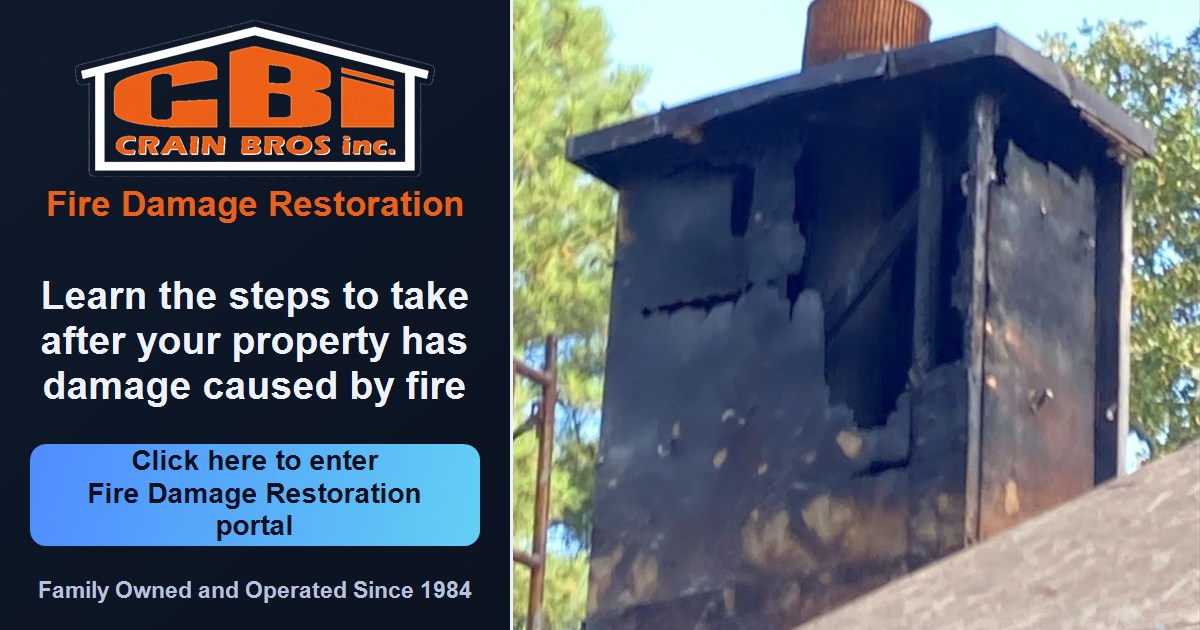
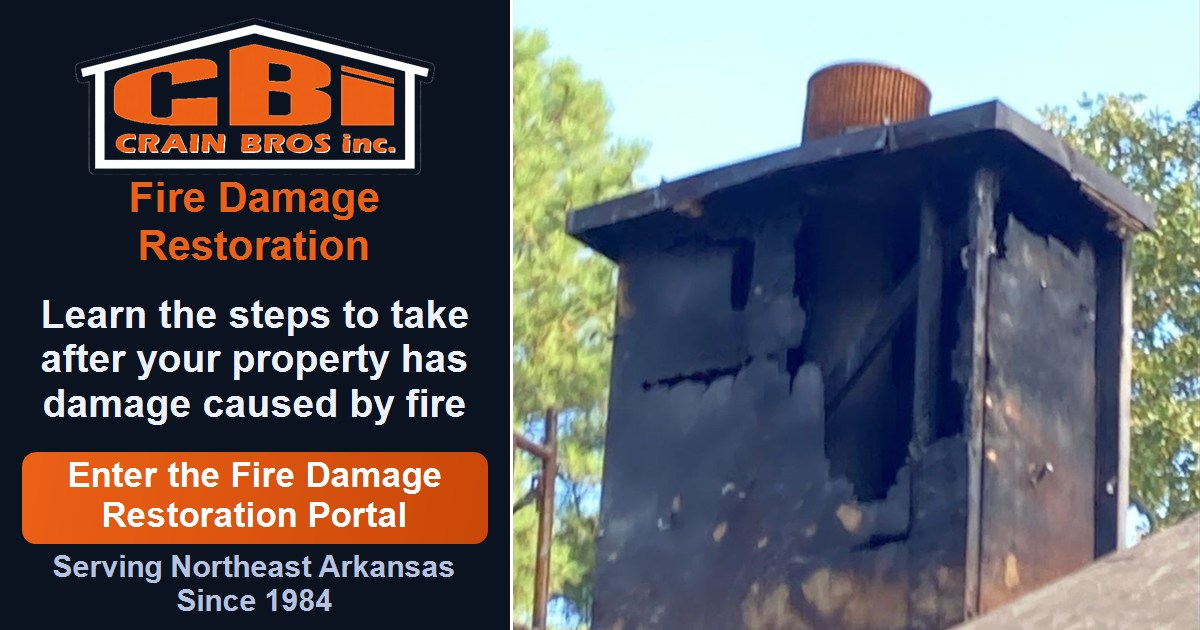
Website update
Automated publish via Publish-CbiWebsite.ps1
Run timestamp: 2026-08-25_203339
Changed entries: 2
Safety gate: PASS

diff --git a/pages/fire-damage.html b/pages/fire-damage.html
@@ -197,7 +197,7 @@
     <div class="container">
       <h1>Fire Damage Restoration Services in Northeast Arkansas</h1>
       <p class="lead">Major demolition, cleaning, and reconstruction should not begin until the actual conditions of the fire-damaged property are understood. Crain Bros Inc investigates the property system by system, assembly by assembly, material by material, and space by space before defining the restoration work. Family owned and operated since 1984, Crain Bros Inc provides full-service residential and commercial fire damage restoration.</p>
-      <div class="hero-actions"><a class="btn btn-primary" href="tel:+18709356019">Call (870) 935-6019</a></div>
+      <div class="hero-actions"><a class="foundation-orange-cta" href="tel:+18709356019">Call to Schedule Your Fire Damage Restoration</a></div>
     </div>
   </section>
   <section class="section section-accent">
@@ -224,7 +224,10 @@
         <article class="tile"><h3>18. Final Inspection and Documentation</h3><p class="muted">Inspect and document the investigation, restoration scope, cleaning, remediation, repairs, alterations, improvements, reconstruction, and completed property conditions.</p></article>
       </div>
     </div>
-  </section>
+        <div class="hero-actions">
+        <a class="foundation-orange-cta" href="tel:+18709356019">Discuss Your Fire Damage Restoration Needs</a>
+      </div>
+</section>
   <section class="section">
     <div class="container">
       <h2>Objective Facts Before Restoration Decisions</h2>
@@ -237,7 +240,10 @@
   <section class="section section-accent fire-photo-section"><div class="container"><h2>Emergency Property Protection</h2><p>Emergency measures protect exposed openings and damaged roof areas while the investigation, design, and permanent restoration work are being developed.</p><div class="fire-image-layout">
     <figure class="fire-photo-card"><img src="../images/page-assets/service/fire-damage/board-up-site-protection-fire-damage-northeast-arkansas-crain-bros-inc-work-10.jpg" alt="Window and door board-up with ground protection during fire damage restoration work" loading="lazy" decoding="async"><figcaption><strong>Board-Up and Site Protection</strong><span>Board-ups and site protection help secure openings, control access, and protect surrounding areas during the early stages of a fire damage project.</span></figcaption></figure>
     <figure class="fire-photo-card"><img src="../images/page-assets/service/fire-damage/temporary-roof-tarping-fire-damage-northeast-arkansas-crain-bros-inc-work-11.jpg" alt="Temporary roof tarping protecting a fire-damaged property from additional weather exposure" loading="lazy" decoding="async"><figcaption><strong>Temporary Roof Protection</strong><span>Temporary roof tarping helps protect a fire-damaged property from additional weather exposure before permanent roof and structural work begins.</span></figcaption></figure>
-  </div></div></section>
+  </div></div>      <div class="hero-actions">
+        <a class="foundation-orange-cta" href="tel:+18709356019">Call for Emergency Fire Damage Response</a>
+      </div>
+</section>
   <section class="section fire-photo-section"><div class="container"><h2>Visible and Concealed Fire Damage Investigation</h2><p>Each building system, assembly, material, room, cavity, and adjoining space is evaluated according to its actual condition. Visible burning is only one part of the investigation.</p><div class="fire-image-layout">
     <figure class="fire-photo-card"><img src="../images/page-assets/service/fire-damage/chimney-roof-fire-damage-northeast-arkansas-crain-bros-inc-work-01.jpg" alt="Fire damage to a chimney enclosure and adjoining roof structure" loading="lazy" decoding="async"><figcaption><strong>Chimney and Roof Fire Damage</strong><span>Exterior fire damage can involve the chimney enclosure, roof coverings, sheathing, framing, weather barriers, and adjoining concealed assemblies.</span></figcaption></figure>
     <figure class="fire-photo-card"><img src="../images/page-assets/service/fire-damage/concealed-structural-fire-damage-northeast-arkansas-crain-bros-inc-work-02.jpg" alt="Charred structural framing exposed during inspection of concealed fire damage" loading="lazy" decoding="async"><figcaption><strong>Concealed Structural Damage</strong><span>Controlled opening of concealed areas can reveal charred framing and residue that were not visible during the initial surface inspection.</span></figcaption></figure>
@@ -253,12 +259,18 @@
       <p>Crain Bros Inc performs residential and commercial fire damage restoration as an Arkansas licensed contractor. Each project is coordinated according to the applicable contractor licensing, trade licensing, code, permit, inspection, and design-professional requirements for the property and proposed work.</p>
     </div>
   </section>
-  <section class="section"><div class="container"><h2>Pre-Reconstruction Inspection and Verification</h2><p>Before rebuilding begins, the remaining building systems, assemblies, materials, cavities, and work areas are inspected to verify that the conditions required for reconstruction have been met.</p><p>The review verifies, as applicable, that required removal is complete, concealed areas included in the scope have been inspected, remaining materials have received required cleaning or remediation, water-affected materials have reached the required condition, systems and materials intended to remain are sanitary, unresolved conditions are identified before concealment, and code and design requirements are incorporated into the reconstruction plan.</p></div></section>
+  <section class="section"><div class="container"><h2>Pre-Reconstruction Inspection and Verification</h2><p>Before rebuilding begins, the remaining building systems, assemblies, materials, cavities, and work areas are inspected to verify that the conditions required for reconstruction have been met.</p><p>The review verifies, as applicable, that required removal is complete, concealed areas included in the scope have been inspected, remaining materials have received required cleaning or remediation, water-affected materials have reached the required condition, systems and materials intended to remain are sanitary, unresolved conditions are identified before concealment, and code and design requirements are incorporated into the reconstruction plan.</p></div>      <div class="hero-actions">
+        <a class="foundation-orange-cta" href="tel:+18709356019">Talk With a Fire Damage Restoration Contractor</a>
+      </div>
+</section>
   <section class="section section-accent fire-photo-section"><div class="container"><h2>Repairs and Complete Reconstruction</h2><p>Crain Bros Inc provides full-service restoration from emergency protection and investigation through repairs, alterations, improvements, and complete reconstruction.</p><div class="fire-image-layout">
     <figure class="fire-photo-card"><img src="../images/page-assets/service/fire-damage/chimney-reconstruction-scaffolding-fire-damage-northeast-arkansas-crain-bros-inc-work-07.jpg" alt="Fire-damaged chimney and roof during structural reconstruction" loading="lazy" decoding="async"><figcaption><strong>Fire Damage Reconstruction</strong><span>During reconstruction, fire-damaged chimney and roof assemblies are rebuilt after damaged materials are removed and the remaining structure is inspected and ready for rebuilding.</span></figcaption></figure>
     <figure class="fire-photo-card"><img src="../images/page-assets/service/fire-damage/chimney-enclosure-reconstruction-fire-damage-northeast-arkansas-crain-bros-inc-work-08.jpg" alt="Chimney enclosure reconstruction with new sheathing, weather barrier, roof access, and scaffolding" loading="lazy" decoding="async"><figcaption><strong>Chimney Enclosure Reconstruction</strong><span>New sheathing and weather-resistive materials are installed as the chimney enclosure and adjoining roof components are rebuilt.</span></figcaption></figure>
     <figure class="fire-photo-card"><img src="../images/page-assets/service/fire-damage/roof-chimney-reconstruction-fire-damage-northeast-arkansas-crain-bros-inc-work-09.jpg" alt="Extensive roof and chimney reconstruction after removal of fire-damaged structural materials" loading="lazy" decoding="async"><figcaption><strong>Roof and Chimney Reconstruction</strong><span>Complete reconstruction follows investigation, removal, cleaning, code review, design, and pre-reconstruction verification.</span></figcaption></figure>
-  </div></div></section>
+  </div></div>      <div class="hero-actions">
+        <a class="foundation-orange-cta" href="tel:+18709356019">Plan Fire Damage Repairs and Reconstruction</a>
+      </div>
+</section>
   <section class="section"><div class="container"><h2>Fire Damage Restoration Services</h2><div class="grid-3">
     <article class="tile"><h3>Emergency Board-Ups and Temporary Protection</h3><p class="muted">Protecting exposed openings and damaged roof areas while investigation and restoration planning move forward.</p></article>
     <article class="tile"><h3>Detailed Property Investigation</h3><p class="muted">Inspecting systems, assemblies, materials, rooms, cavities, and adjoining spaces to establish objective property conditions.</p></article>
